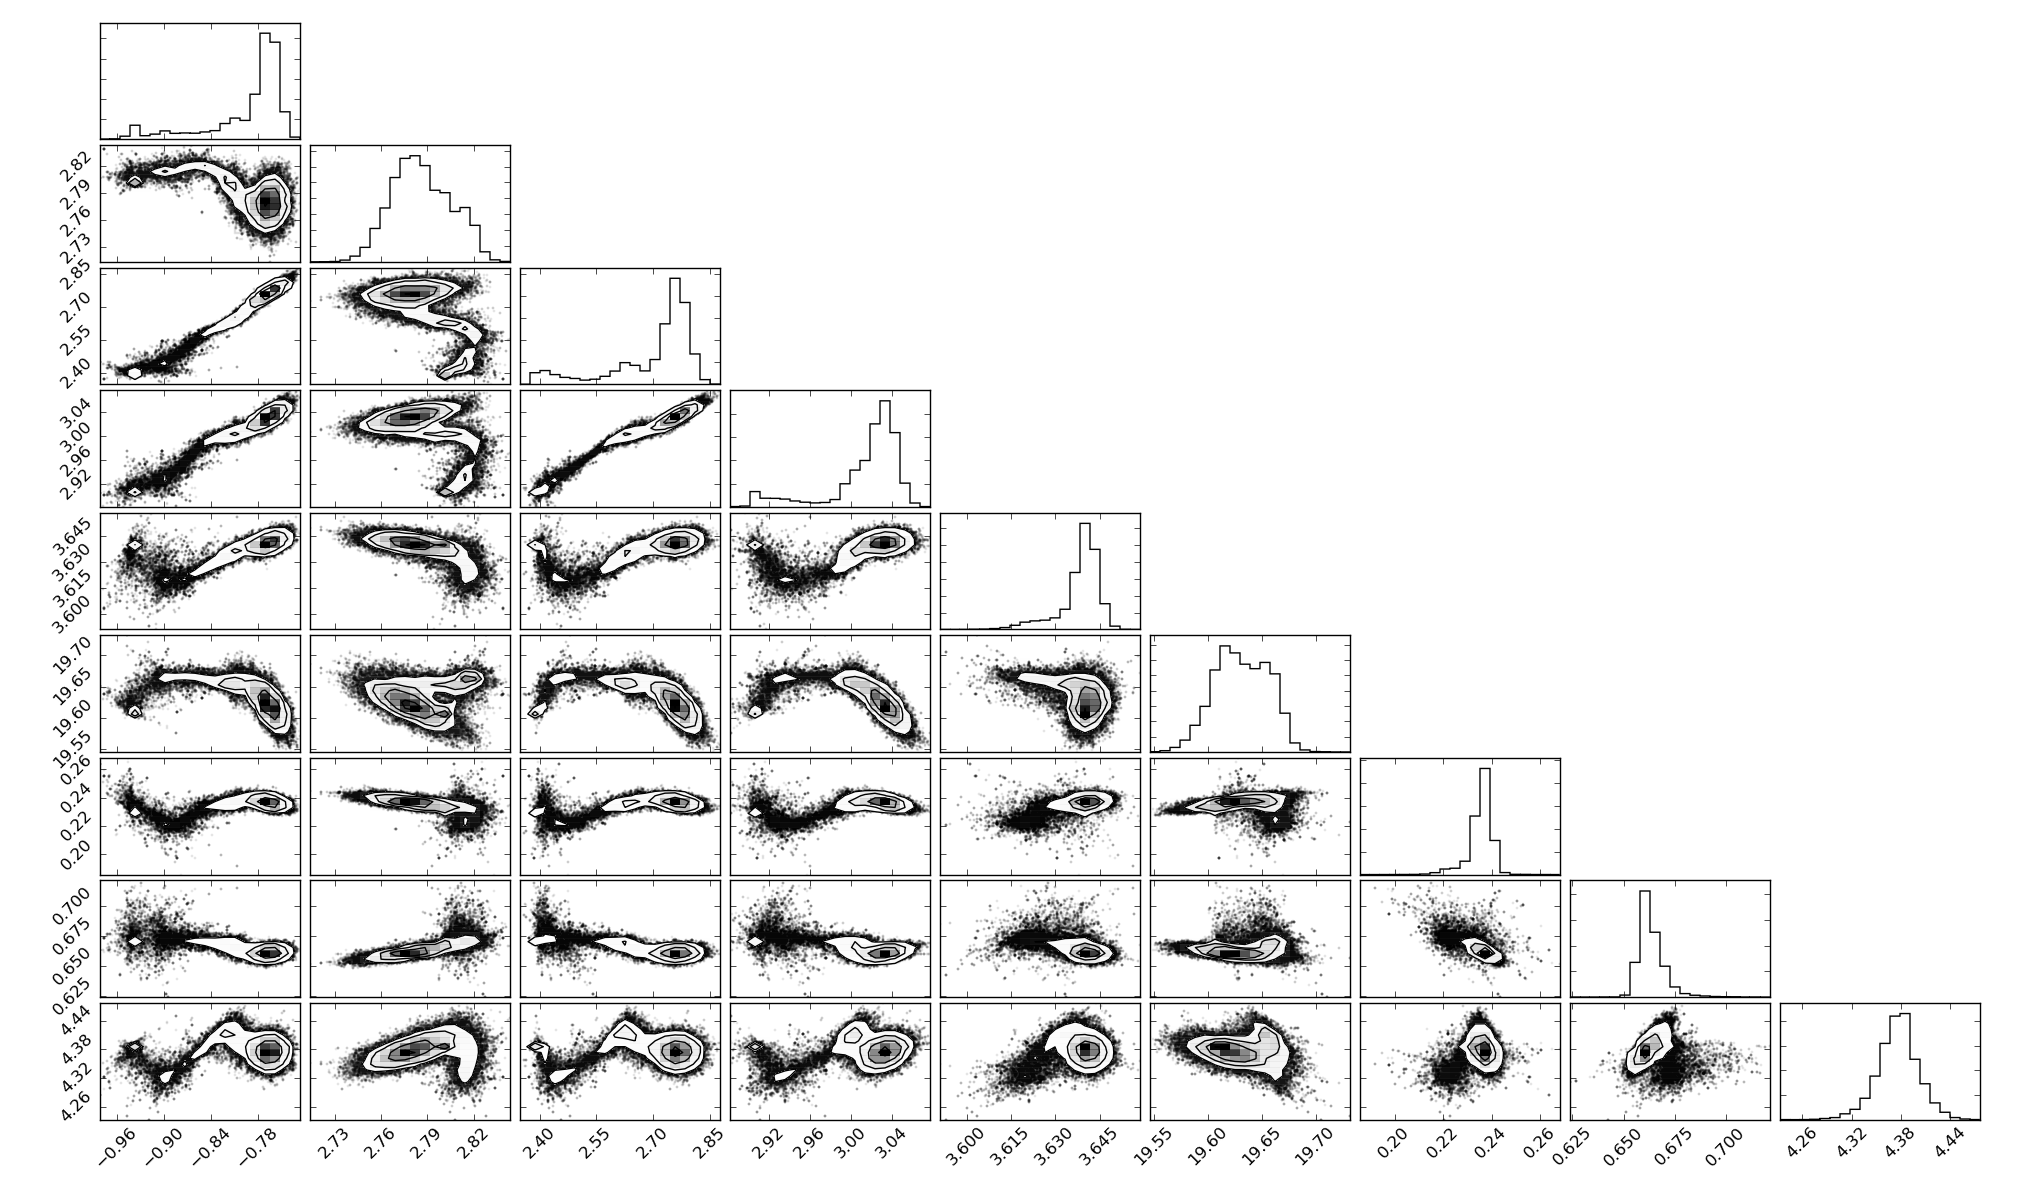
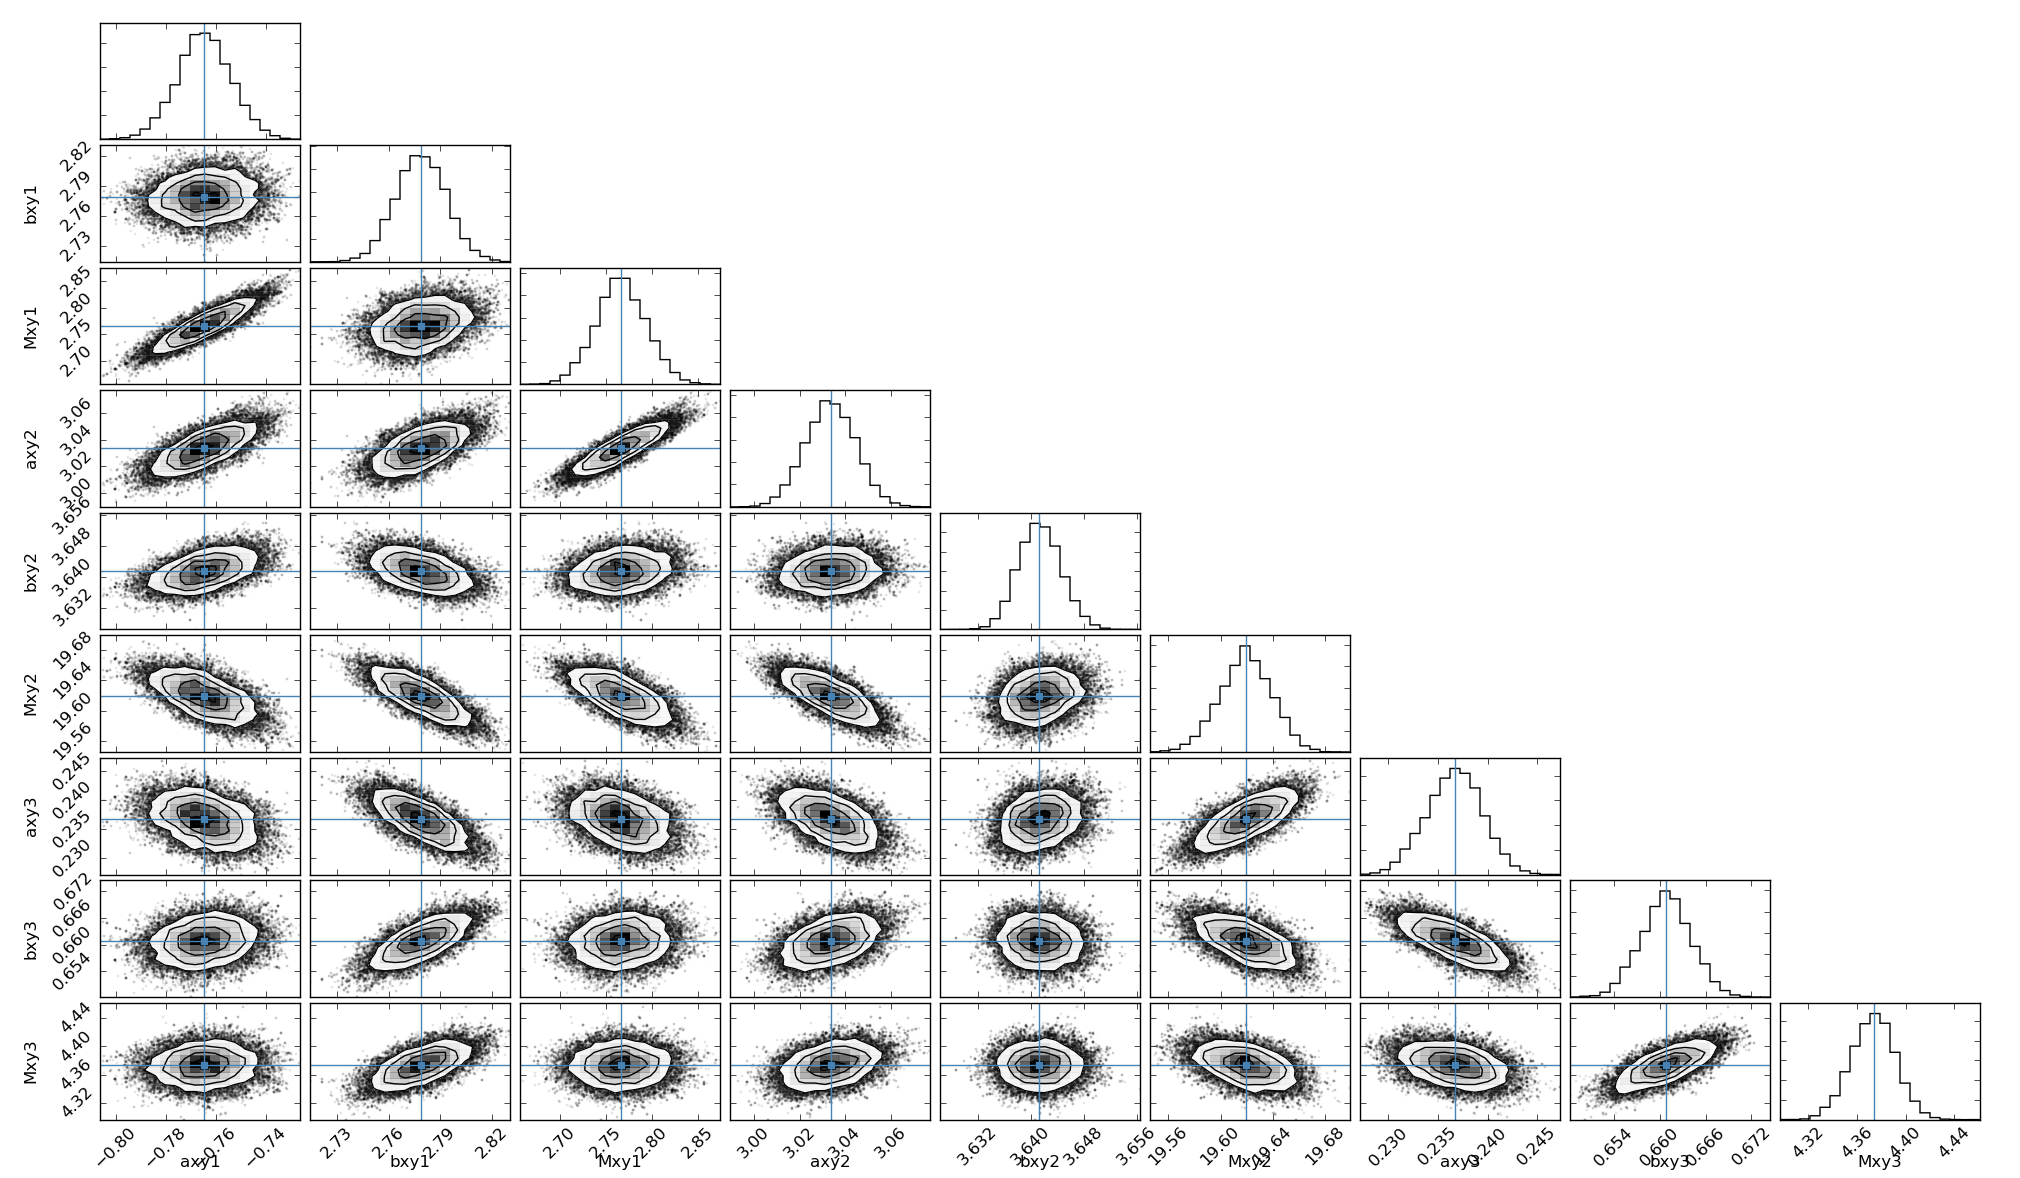
Added truth display on corner plot, changed the fitting example to match more the tutorial, updated the tutorial with additional features (corner plot and residuals)

diff --git a/mnn/examples/fitting_example.py b/mnn/examples/fitting_example.py
@@ -1,28 +1,29 @@
 from mnn.fitter import MNnFitter
+from mnn.model import MNnModel
 import numpy as np
 
-if __name__ == '__main__':
-    print(' -- Miyamoto Nagai negative model examples --')
+fitter = MNnFitter(n_walkers=100, n_steps=1000, fit_type='density', verbose=True)
 
-    print('Test : Fitting data to models :')
-    fitter = MNnFitter(n_walkers=100, n_steps=1000, fit_type='density', verbose=True)
+# Loading the data we want to fit against
+fitter.load_data('density.dat')
 
-    # Loading the data we want to fit against
-    fitter.load_data('density.dat')
+# Initial guess :
+x0 = np.array((-0.94, 2.80, 2.40, 2.91, 3.64, 19.61, 0.23, 0.67, 4.39))
 
-    # Initial guess :
-    x0 = np.array((-0.94, 2.80, 2.40, 2.91, 3.64, 19.61, 0.23, 0.67, 4.39))
+# Fitting the data
+fitter.set_model_type(0, 0, 3)
+samples, prob = fitter.fit_data(plot_freq=50, burnin=400, x0=x0)
 
-    # Fitting the data
-    fitter.set_model_type(0, 0, 3)
-    samples, prob = fitter.fit_data(plot_freq=50, burnin=400, x0=x0)
-
-    # Plotting the sampler on every quantity (disk)
-    fig = fitter.plot_disc_walkers()
-    fig.show()
-
-    fig = fitter.corner_plot()
-    fig.show()
+# Plotting the sampler on every quantity (disk)
+fig = fitter.plot_disc_walkers()
+fig.show()
     
-    q = fitter.compute_quantiles(samples)
-    print(q)
+q = fitter.compute_quantiles(samples)
+print(q)
+
+# Building a model from the fitter
+model = fitter.make_model(q[1])
+
+# Plotting the corner plot with our selected value :
+fig = fitter.corner_plot(q[1])
+fig.show()

diff --git a/mnn/fitter.py b/mnn/fitter.py
@@ -318,11 +318,14 @@ class MNnFitter(object):
 
         return fig
 
-    def corner_plot(self):
+    def corner_plot(self, model=None):
         """ Computes the corner plot of the fitted data. 
 
         Note:
             If this method fails it might mean the fitting has not properly converged yet.
+
+        Args:
+            model (tuple): A flattened model or *None*. If *None* no truth value will be displayed on the plot.
 
         Returns:
             The corner plot object.
@@ -343,8 +346,11 @@ class MNnFitter(object):
         if self.verbose:
             print("Computing corner plot ...")
 
-        #figt = corner.corner(self.samples, labels=labels, truths=self.model)
-        figt = corner.corner(sampler.flatchain)
+        if model != None:
+            figt = corner.corner(self.samples, labels=labels, truths=model)
+        else:
+            figt = corner.corner(self.samples, labels=labels)
+            
         return figt
 
     def compute_quantiles(self, samples, quantiles=(16, 50, 84)):
@@ -393,9 +399,7 @@ class MNnFitter(object):
             print('Error : No data loaded in the fitter ! You need to call "load_data" first')
 
         # Creating the model object from the parameters
-        mmn = MNnModel()
-        for id_disc, axis in enumerate(self.axes):
-            mmn.add_disc(axis, *model[id_disc*3:(id_disc+1)*3])
+        mmn = self.make_model(model)
 
         # Evaluating the residual :
         result = self.data[:,3] - mmn.evaluate_density(self.data[:,0], self.data[:,1], self.data[:,2])

diff --git a/docs/tutorial.rst b/docs/tutorial.rst
@@ -173,6 +173,7 @@ Once the fitter has finished, we can plot the whole chain to see the results :
 You should get a result looking like this :
 
 .. image:: images/tut_chain1.png
+	  
 
 Now the program seems to have converged on a solution. An acceptable solution is the median of the values. What we can do, since
 all the walkers have converged on the same solution and there is no degeneracy is to compute quantiles on the solution, and
@@ -193,8 +194,32 @@ parameters, ``q[1]`` the median and ``q[2]`` the 84% percentile. Let's store the
  ('z', 3.0334881497301636, 3.6413315596626976, 19.619246932879513),
  ('z', 0.23673507131588803, 0.6608545874695207, 4.373688142450103)]
 
- Now, you have an instance of :class:`mnn.model.MNnModel` that you can use as we have seen in the first sections of this tutorial !
+Now, you have an instance of :class:`mnn.model.MNnModel` that you can use as we have seen in the first two sections of this tutorial !
 
+Additional features
+-------------------
+
+
+Corner plots
+^^^^^^^^^^^^
+If you are interested on displaying the corner plots proposed in ``emcee`` you can use the :func:`~mnn.fitter.MNnFitter.corner_plot` method :
+
+>>> fitter.corner_plot(q[1])
+
+Calling this method on the previous example gives us the following plot :
+
+.. image:: images/tut_corner.png
+
+
+Residuals
+^^^^^^^^^	   
+
+The fitter offers the possibility to compute the residuals between a flattened model and your data. To do this, use the method
+:func:`~mnn.fitter.MNnFitter.get_residuals`
+
+>>> fitter.get_residuals(q[1])
+
+These residuals are returned as a numpy array. So you can use ``np.linalg.norm()`` to compute the error on the solution.
 
 This concludes this tutorial. Feel free to browse the :doc:`API </reference>` to find more information and ask your question on the
 `github repository <https://github.com/mdelorme/MNn/>`_.

diff --git a/docs/mnn.rst b/docs/mnn.rst
@@ -1,11 +1,4 @@
 Miyamoto-Nagai negative
 =======================
 
-TODO !
-
-  1. Why we need it ?
-  2. What is it doing ?
-  3. How ?
-  4. Limitations
-
-
+This section is in construction, in the meantime, you can read the preprint of the article available on `arXiv <http://arxiv.org/abs/1604.03651>`_
